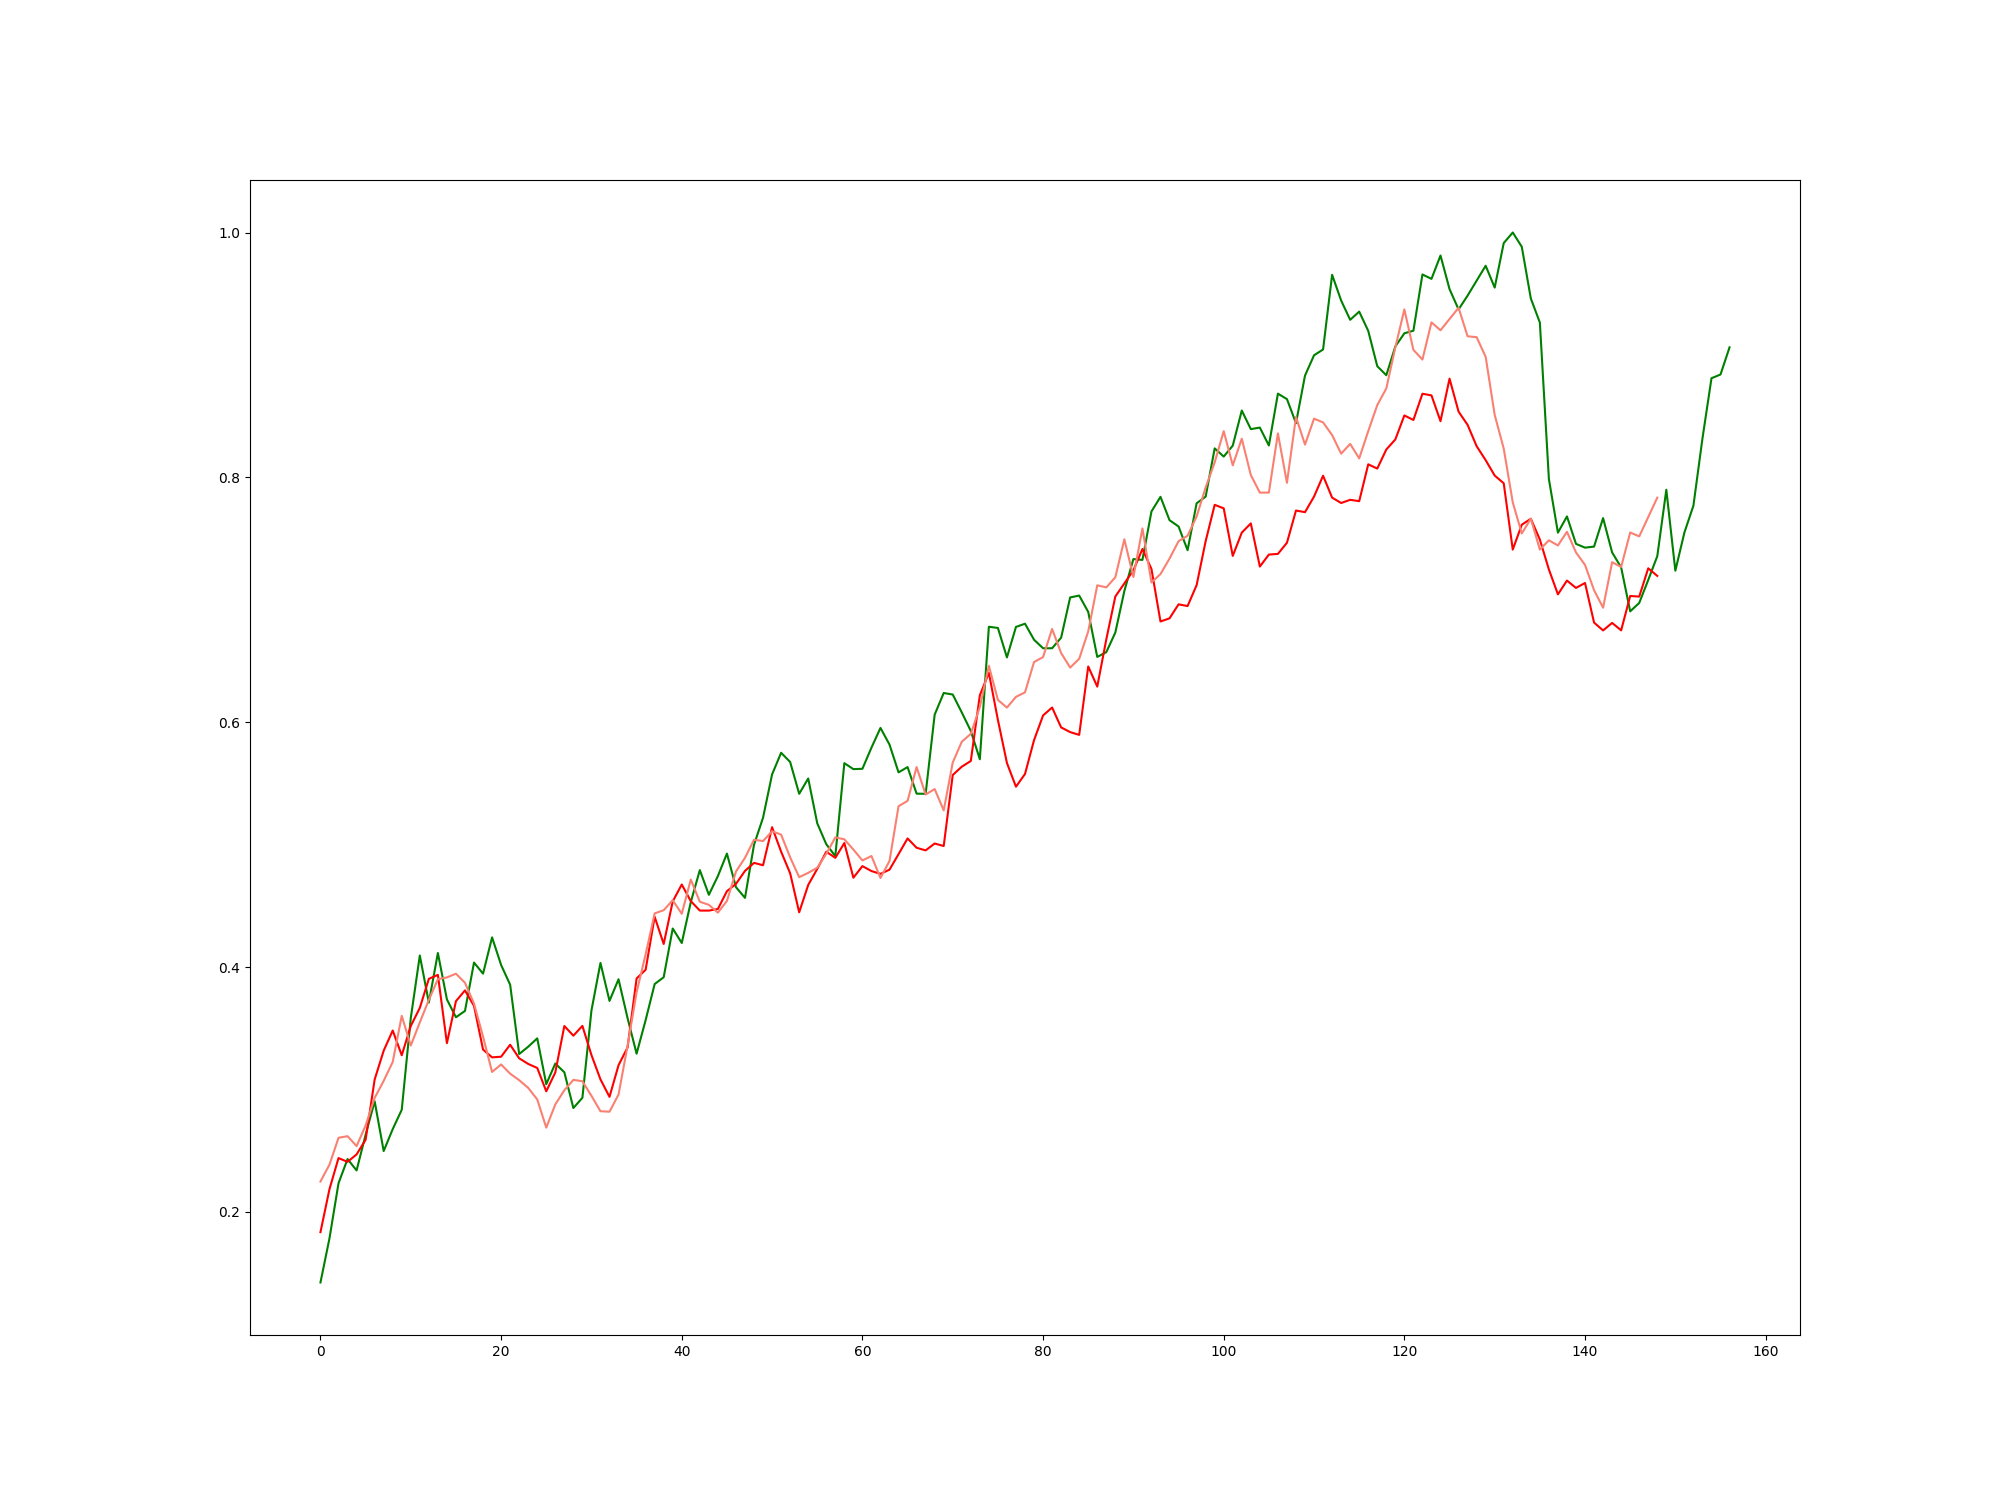
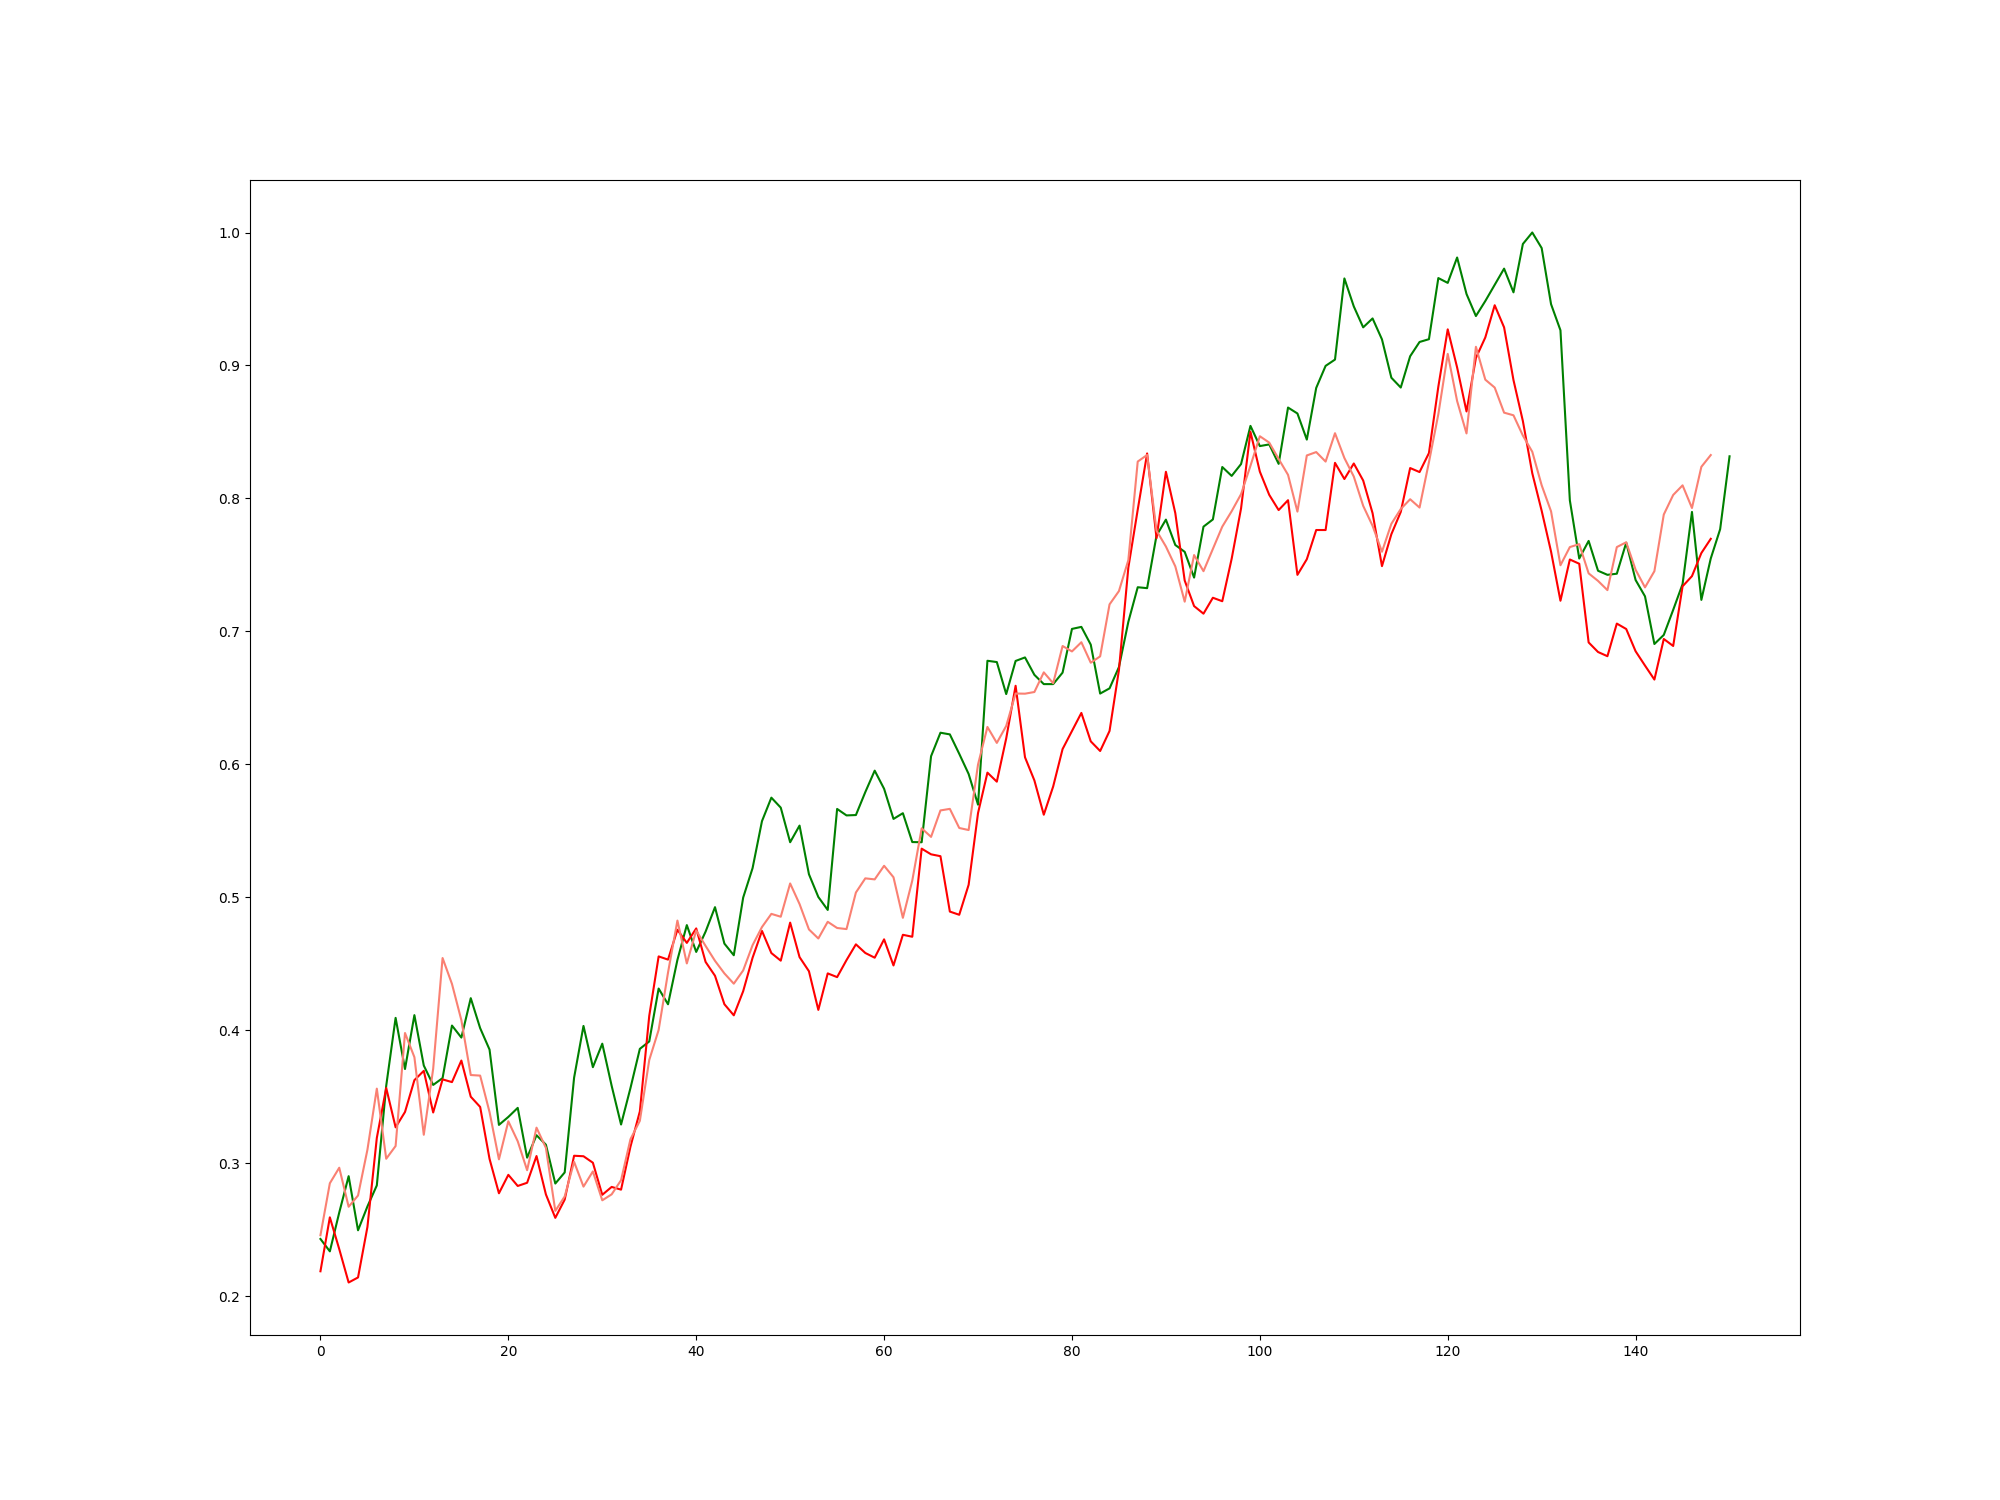
added

Changed region(s): [[0.155, 0.1533, 0.868, 0.8587]]

diff --git a/model.py b/model.py
@@ -1,7 +1,7 @@
 import torch
 import numpy as np
 import torch.nn as nn
-import pytorch_forecasting 
+# import pytorch_forecasting 
 
 
 def reshape_tensor(x, batch_size):
@@ -13,7 +13,7 @@ def reshape_tensor(x, batch_size):
     return x.view(new_shape)
 
 class NN(nn.Module):
-    def __init__(self, input_size1, hidden_size, output_size,lr,weight_decay):
+    def __init__(self, input_size1, hidden_size, output_size,lr,weight_decay,params):
         super(NN, self).__init__()
         
         if torch.cuda.is_available():
@@ -21,9 +21,9 @@ class NN(nn.Module):
         else:
             dev = "cpu"
         self.number_of_nodes = hidden_size
-        self.fc1 = nn.Linear(input_size1, hidden_size,dtype=torch.float).to(dev)
+        self.fc1 = nn.Linear(input_size1, output_size,dtype=torch.float).to(dev)
         self.relu = nn.ReLU().to(dev)
-        self.fc2 = nn.Linear(hidden_size, hidden_size,dtype=torch.float).to(dev)
+        self.fc2 = nn.Linear(output_size, hidden_size,dtype=torch.float).to(dev)
         self.relu = nn.ReLU().to(dev)
         self.fc3 = nn.Linear(hidden_size, output_size,dtype=torch.float).to(dev)
         self.optimizer = torch.optim.SGD(self.parameters(),lr=lr,weight_decay=weight_decay)
@@ -43,8 +43,19 @@ class NN(nn.Module):
         out = self.fc3(out)
 
         return out
+    def forward_linear(self,x):
+        if torch.cuda.is_available():
+            dev = "cuda:0"
+            
+        else:
+            dev = "cpu"
+        device = torch.device(dev)
+        out = torch.tensor(x,dtype=torch.float).to(device)
+        out = self.fc1(out)
+       
+        return out
 
-    def train(self,num_epochs,x_train_data,y_train_data,autocorr=False,lambda_=0.001):
+    def train(self,num_epochs,x_train_data,y_train_data,autocorr=False,lambda_=0.1):
         if torch.cuda.is_available():
             dev = "cuda:0"
         else:
@@ -62,12 +73,13 @@ class NN(nn.Module):
                 outputs = self.forward(torch.flatten(x_train_data[stream,:,:,:]))
                 loss = self.criterion(outputs, torch.flatten(y_train_data[stream,:,:,:]))
                 if autocorr and stream<len(x_train_data)-4:
-                    outputs1 = outputs[0:3]
-                    outputs2 = self.forward(torch.flatten(x_train_data[stream+3,:,:,:]))[0:3]
-                    loss += ((outputs1[-1]-outputs2[0])**2).mean()*lambda_
-                    loss += (outputs1[0]-outputs1[1])**2*lambda_
-                    loss += (outputs1[1]-outputs1[2])**2*lambda_
-                    
+                    # outputs1 = outputs[0:3]
+                    # outputs2 = self.forward(torch.flatten(x_train_data[stream+3,:,:,:]))[0:3]
+                    # loss += ((outputs1[-1]-outputs2[0])**2).mean()*lambda_
+                    # loss += (outputs1[0]-outputs1[1])**2*lambda_
+                    # loss += (outputs1[1]-outputs1[2])**2*lambda_
+                    outputs_arima = self.forward_linear(torch.flatten(x_train_data[stream,:,:,:]))
+                    loss += self.criterion(outputs_arima, torch.flatten(y_train_data[stream,:,:,:]))*lambda_
                 loss.backward()
                 self.optimizer.step()
                 

diff --git a/main.py b/main.py
@@ -4,6 +4,7 @@ from model import *
 import matplotlib.pyplot as plt
 import torch
 from scipy.signal import correlate
+import statsmodels.api as sm
 
 def conver_to_lstm_data(data,sequence_length):
     data =np.array(data)
@@ -78,6 +79,19 @@ stocksTotalLstmXTest = stocksTotalLstmX[stop:,:,:,:]
 stocksTotalLstmYTrain = stocksTotalLstmY[:stop,:,:,:]
 stocksTotalLstmYTest = stocksTotalLstmY[stop:,:,:,:]
 
+
+# Load your time series data into a DataFrame (assuming 'data' contains your data)
+# Specify the order of the MA component (q)
+q = 2
+# Fit the ARIMA model
+model = sm.tsa.ARIMA(endog=stocksTotalLstmY[:stop,0,0,0], order=(input_sequence_length-5, 0, input_sequence_length))# ARIMA(0,0,q) for MA(q)
+results = model.fit()
+params_names =results.param_names
+params = results.params
+params = dict(zip(params_names,params))
+
+# Access the estimated MA coefficients
+
 input_size = 110
 output_size = 6 
 hidden_size = 40
@@ -92,14 +106,14 @@ hidden_size = 40
 # output_size = 1
 
 lr = 0.01
-iterations=100
+iterations=200
 fig, (ax1,ax2) = plt.subplots(2,1)
 fig.set_figheight(15)
 fig.set_figwidth(20)
 data = {"autocorrelated":[],"not":[]}
 for weight_decay in [0]:
     for autocorr in [True,False]:
-        ff_nn = NN(input_size,hidden_size,output_size,lr=lr,weight_decay=weight_decay)
+        ff_nn = NN(input_size,hidden_size,output_size,lr=lr,weight_decay=weight_decay,params=params)
         ff_nn.train(iterations,stocksTotalLstmXTrain,stocksTotalLstmYTrain,autocorr=autocorr)
         for stream in range(len(stocksTotalLstmXTest)):
             # if stream % 3 == 0:    
@@ -143,13 +157,13 @@ ax2.title.set_text('Not Autocorrelated')
 # ax2.scatter(count1,unfolded["not"][1],color="orange")
 # ax2.scatter(count2,unfolded["not"][2],color="purple")
 ax2.set_xlim(0,150)
-ax1.plot(stocksTotalY[stop:,0,0],color="green")
-ax2.plot(stocksTotalY[stop:,0,0],color="green")
+ax1.plot(stocksTotalY[stop+3:-3,0,0],color="green")
+ax2.plot(stocksTotalY[stop+3:-3,0,0],color="green")
 plt.savefig("feedforward_autocorr.png")
 
 
 plt.figure(figsize=(20,15))
-plt.plot(stocksTotalY[stop:,0,0],color="green")
+plt.plot(stocksTotalY[stop+3:-3,0,0],color="green")
 plt.plot(count0,unfolded["not"][0],color="red")
 plt.plot(count0,unfolded["autocorrelated"][0],color="salmon")
 plt.savefig("feedforward_autocorr_justones.png")
